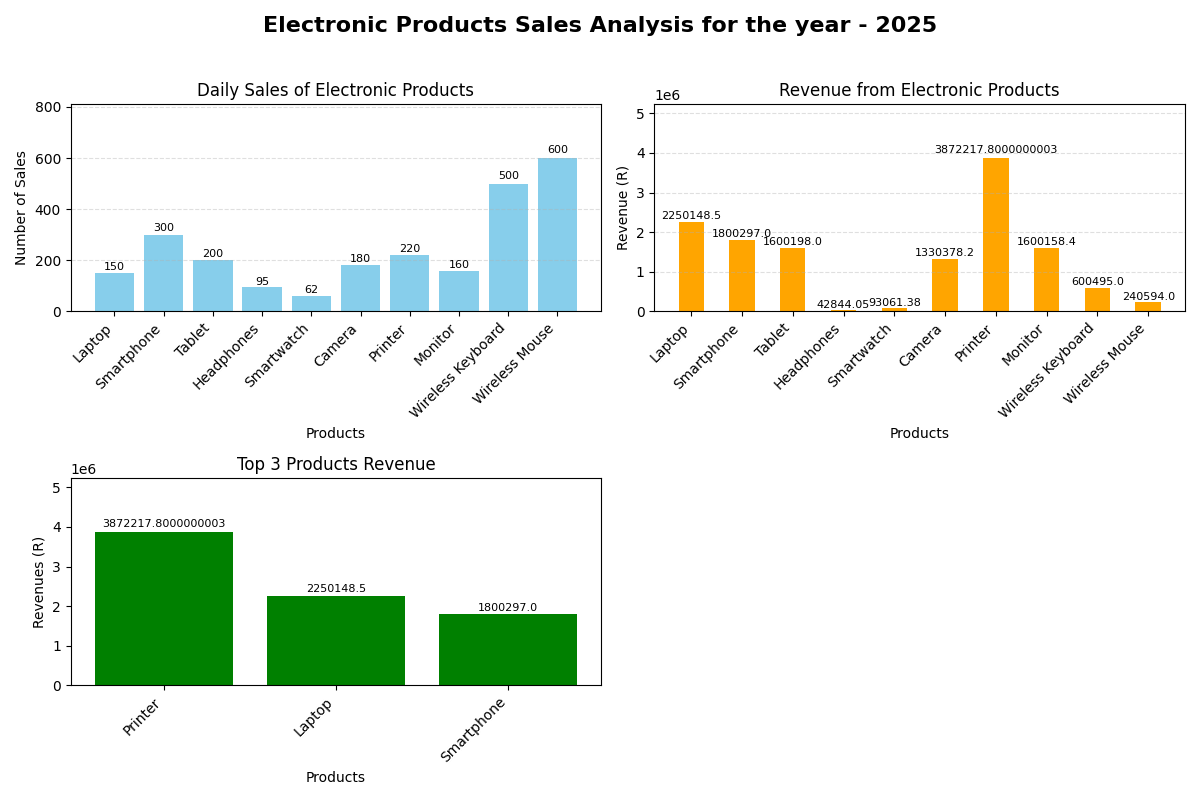
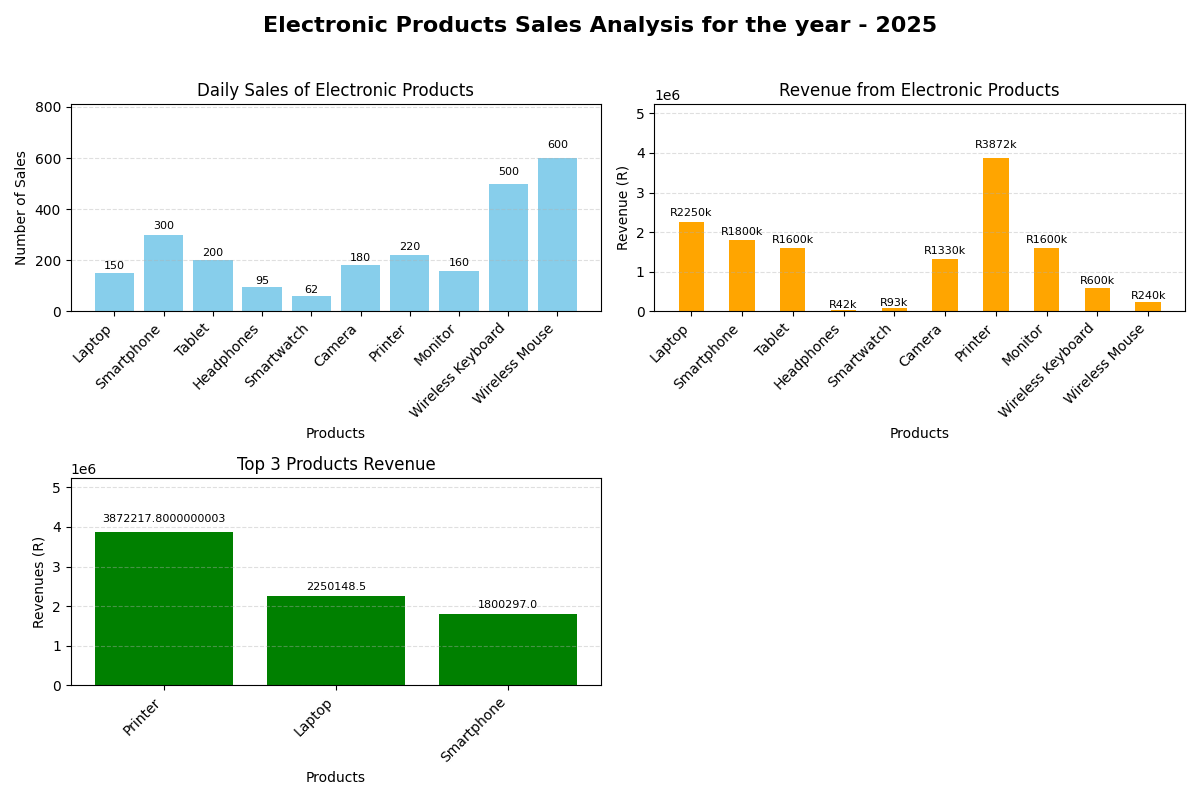
Shortened large numbers for tidiness and readability

diff --git a/main.py b/main.py
@@ -14,8 +14,18 @@ def calculate_daily_sales():
 
 def value_labels(values, is_currency=False):
     for i, v in enumerate(values):
-        label = f"R{v/1000:.0f}k" if is_currency else str(v)
-        plt.text(i, v * 1.02, str(v), ha="center", va="bottom", fontsize=8)
+        if is_currency:
+            if v >= 1000:
+                label = f"R{int(v/1000)}k"
+            else:
+                label = f"R{v}"
+        else:
+            label = str(v)
+        
+        '''
+        label = f"R{v/1000:.0f}k" if is_currency else str(v)'''
+        
+        plt.text(i, v * 1.05, label, ha="center", va="bottom", fontsize=8)
         
 plt.figure(figsize=(12, 8))
 
